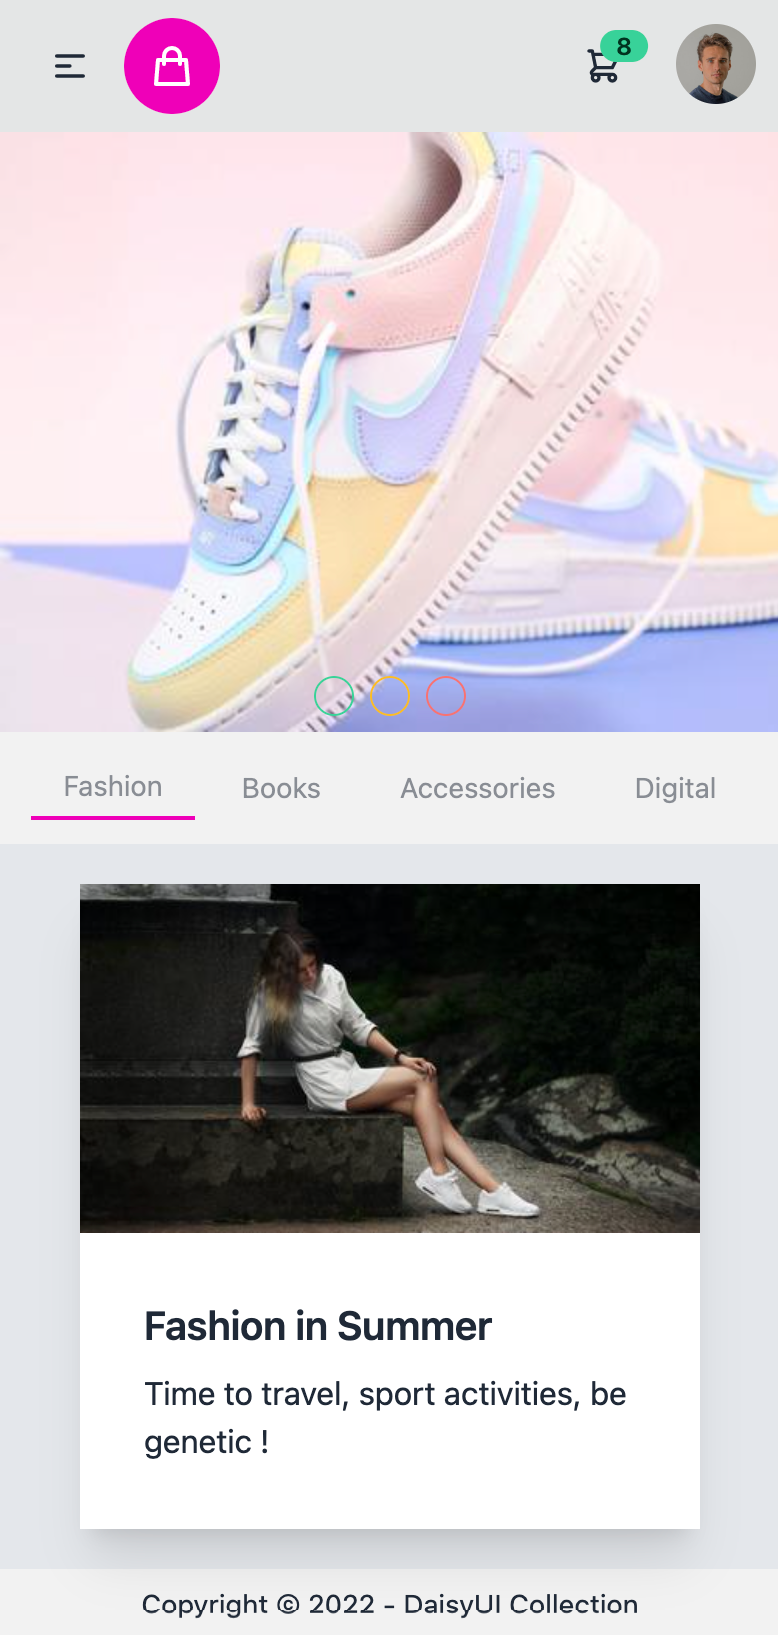
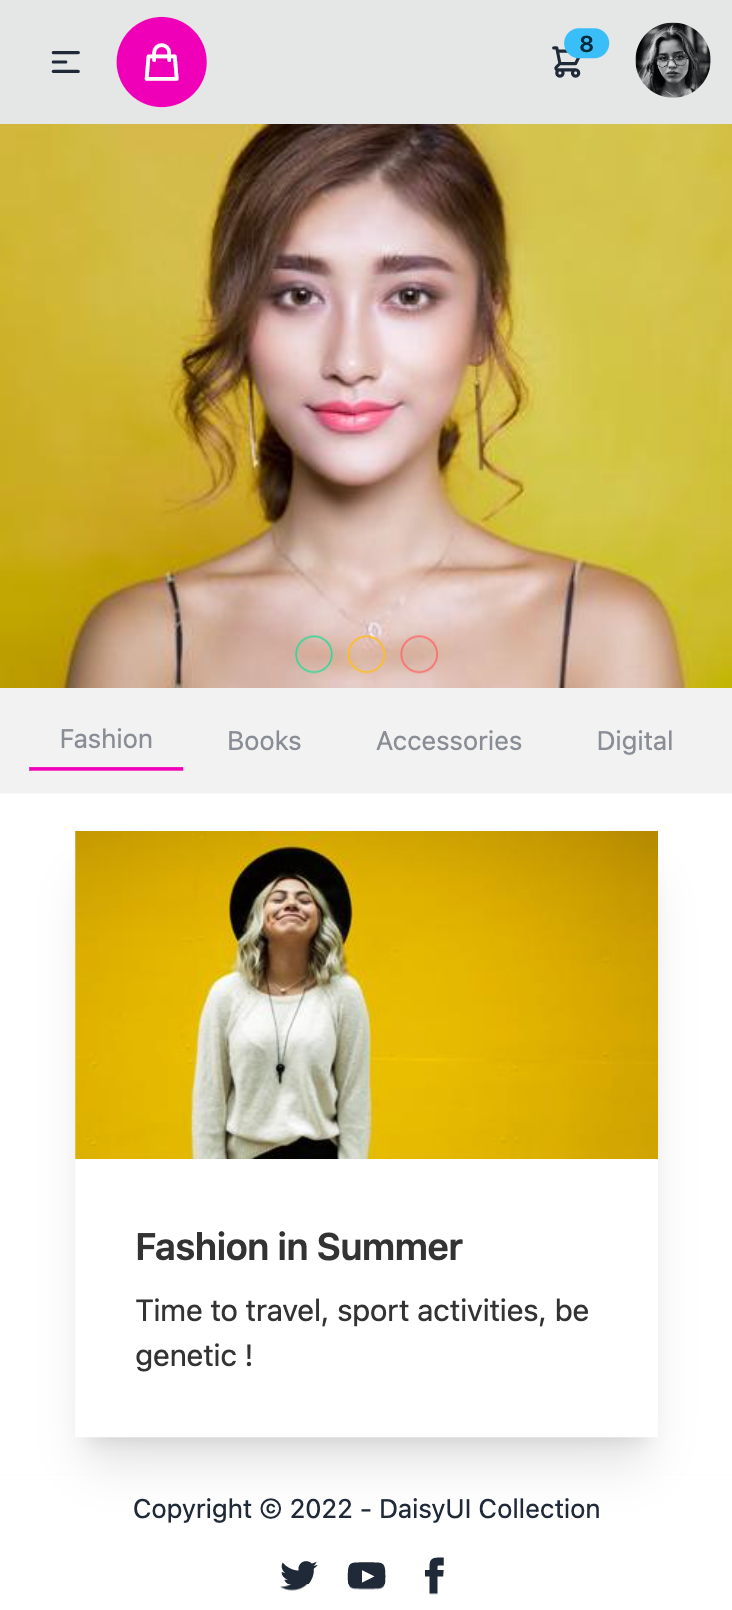
feat: color

diff --git a/docs/index.html b/docs/index.html
@@ -102,7 +102,7 @@
                     <a class="tab">Digital</a>
                 </div>
                     <div class="flex flex-wrap justify-center lg:justify-between">
-                        <div id="featureProduct" class="bg-gray-200 px-10" data-theme="light">
+                        <div id="featureProduct" class="px-10" data-theme="lemonade">
                             <div class="card w-full bg-base-100 shadow-xl mt-5 mb-5 rounded-none">
                                 <img src="https://api.lorem.space/image/fashion?w=400&h=225" alt="Fashion" />
                                 <div class="card-body">
@@ -116,7 +116,7 @@
                 </section>
 
                 <!-- Footer -->
-                <footer class="footer footer-center p-2 text-base-content gap-4 bg-base-200" data-theme="light">
+                <footer class="footer footer-center p-2 text-base-content gap-4" data-theme="light">
                 <div>
                     Copyright © 2022 - DaisyUI Collection
                 </div>

diff --git a/docs/output.css b/docs/output.css
@@ -3900,6 +3900,41 @@ body[dir="rtl"] .checkbox:checked,
   background-color: rgb(229 231 235 / var(--tw-bg-opacity));
 }
 
+.bg-gray-900 {
+  --tw-bg-opacity: 1;
+  background-color: rgb(17 24 39 / var(--tw-bg-opacity));
+}
+
+.bg-gray-400 {
+  --tw-bg-opacity: 1;
+  background-color: rgb(156 163 175 / var(--tw-bg-opacity));
+}
+
+.bg-gray-100 {
+  --tw-bg-opacity: 1;
+  background-color: rgb(243 244 246 / var(--tw-bg-opacity));
+}
+
+.bg-warning {
+  --tw-bg-opacity: 1;
+  background-color: hsl(var(--wa) / var(--tw-bg-opacity));
+}
+
+.bg-secondary {
+  --tw-bg-opacity: 1;
+  background-color: hsl(var(--s) / var(--tw-bg-opacity));
+}
+
+.bg-white {
+  --tw-bg-opacity: 1;
+  background-color: rgb(255 255 255 / var(--tw-bg-opacity));
+}
+
+.bg-accent {
+  --tw-bg-opacity: 1;
+  background-color: hsl(var(--a) / var(--tw-bg-opacity));
+}
+
 .bg-opacity-60 {
   --tw-bg-opacity: 0.6;
 }
